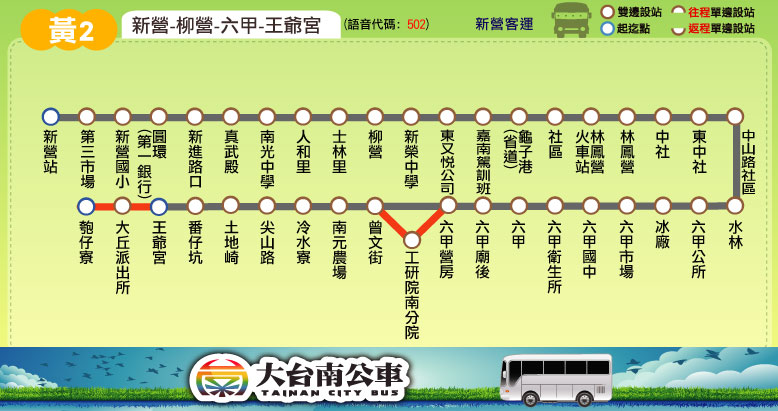
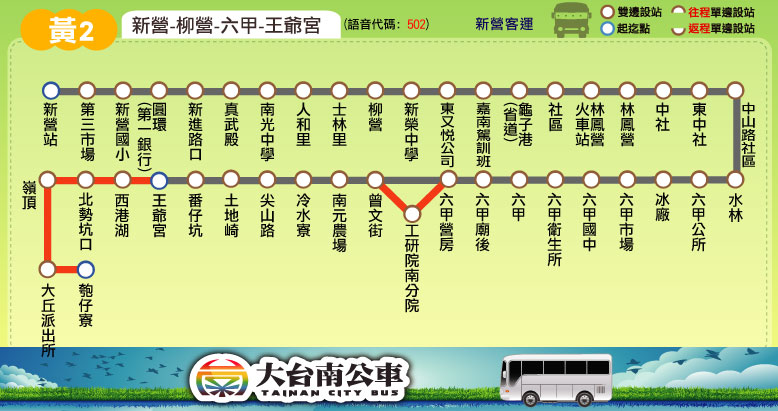
新增站點：黃2新增「西港湖」、「北勢坑口」、「嶺頂」並新增大丘票價

Changed region(s): [[0.0308, 0.1752, 0.9871, 0.8759]]

diff --git a/route/fare_and_time/yellow_2.js b/route/fare_and_time/yellow_2.js
@@ -1,4 +1,4 @@
-yellow_2_interval_name = ["新營","人和里","柳營","龜子港","林鳳營","中社","六甲","六甲<br />營房","工研院","南元<br />農場","冷水寮","尖山路","土地崎","王爺宮"];
+yellow_2_interval_name = ["新營","人和里","柳營","龜子港","林鳳營","中社","六甲","六甲<br />營房","工研院","南元<br />農場","冷水寮","尖山路","土地崎","王爺宮","大丘"];
 yellow_2_interval_stop = [ // 2016.02.04 checked
 ["新營站","第三市場","新營國小","圓環(第一銀行)","新進路口","真武殿","南光中學"], // 新營
 ["人和里"], // 人和里
@@ -13,7 +13,8 @@ yellow_2_interval_stop = [ // 2016.02.04 checked
 ["冷水寮"], // 冷水寮
 ["尖山路"], // 尖山路
 ["土地崎"], // 土地崎
-["番仔坑","王爺宮","大丘派出所","匏仔寮"] // 王爺宮
+["番仔坑","王爺宮"], // 王爺宮
+["西港湖","北勢坑口","嶺頂","大丘派出所","匏仔寮"] // 大丘
 ];
 yellow_2_fare = [
 [26],
@@ -29,7 +30,8 @@ yellow_2_fare = [
 [69,61,55,47,42,36,26,26,26,26,26],
 [73,65,60,51,46,40,27,26,26,26,26,26],
 [76,68,62,54,49,43,30,26,26,26,26,26,26],
-[81,72,67,58,53,47,34,26,26,26,26,26,26,26]
+[81,72,67,58,53,47,34,26,26,26,26,26,26,26],
+[111,103,97,89,84,78,64,55,52,47,42,37,35,30,26]
 ];
 // format = [time at the start stop] or
 // [time, other] or
